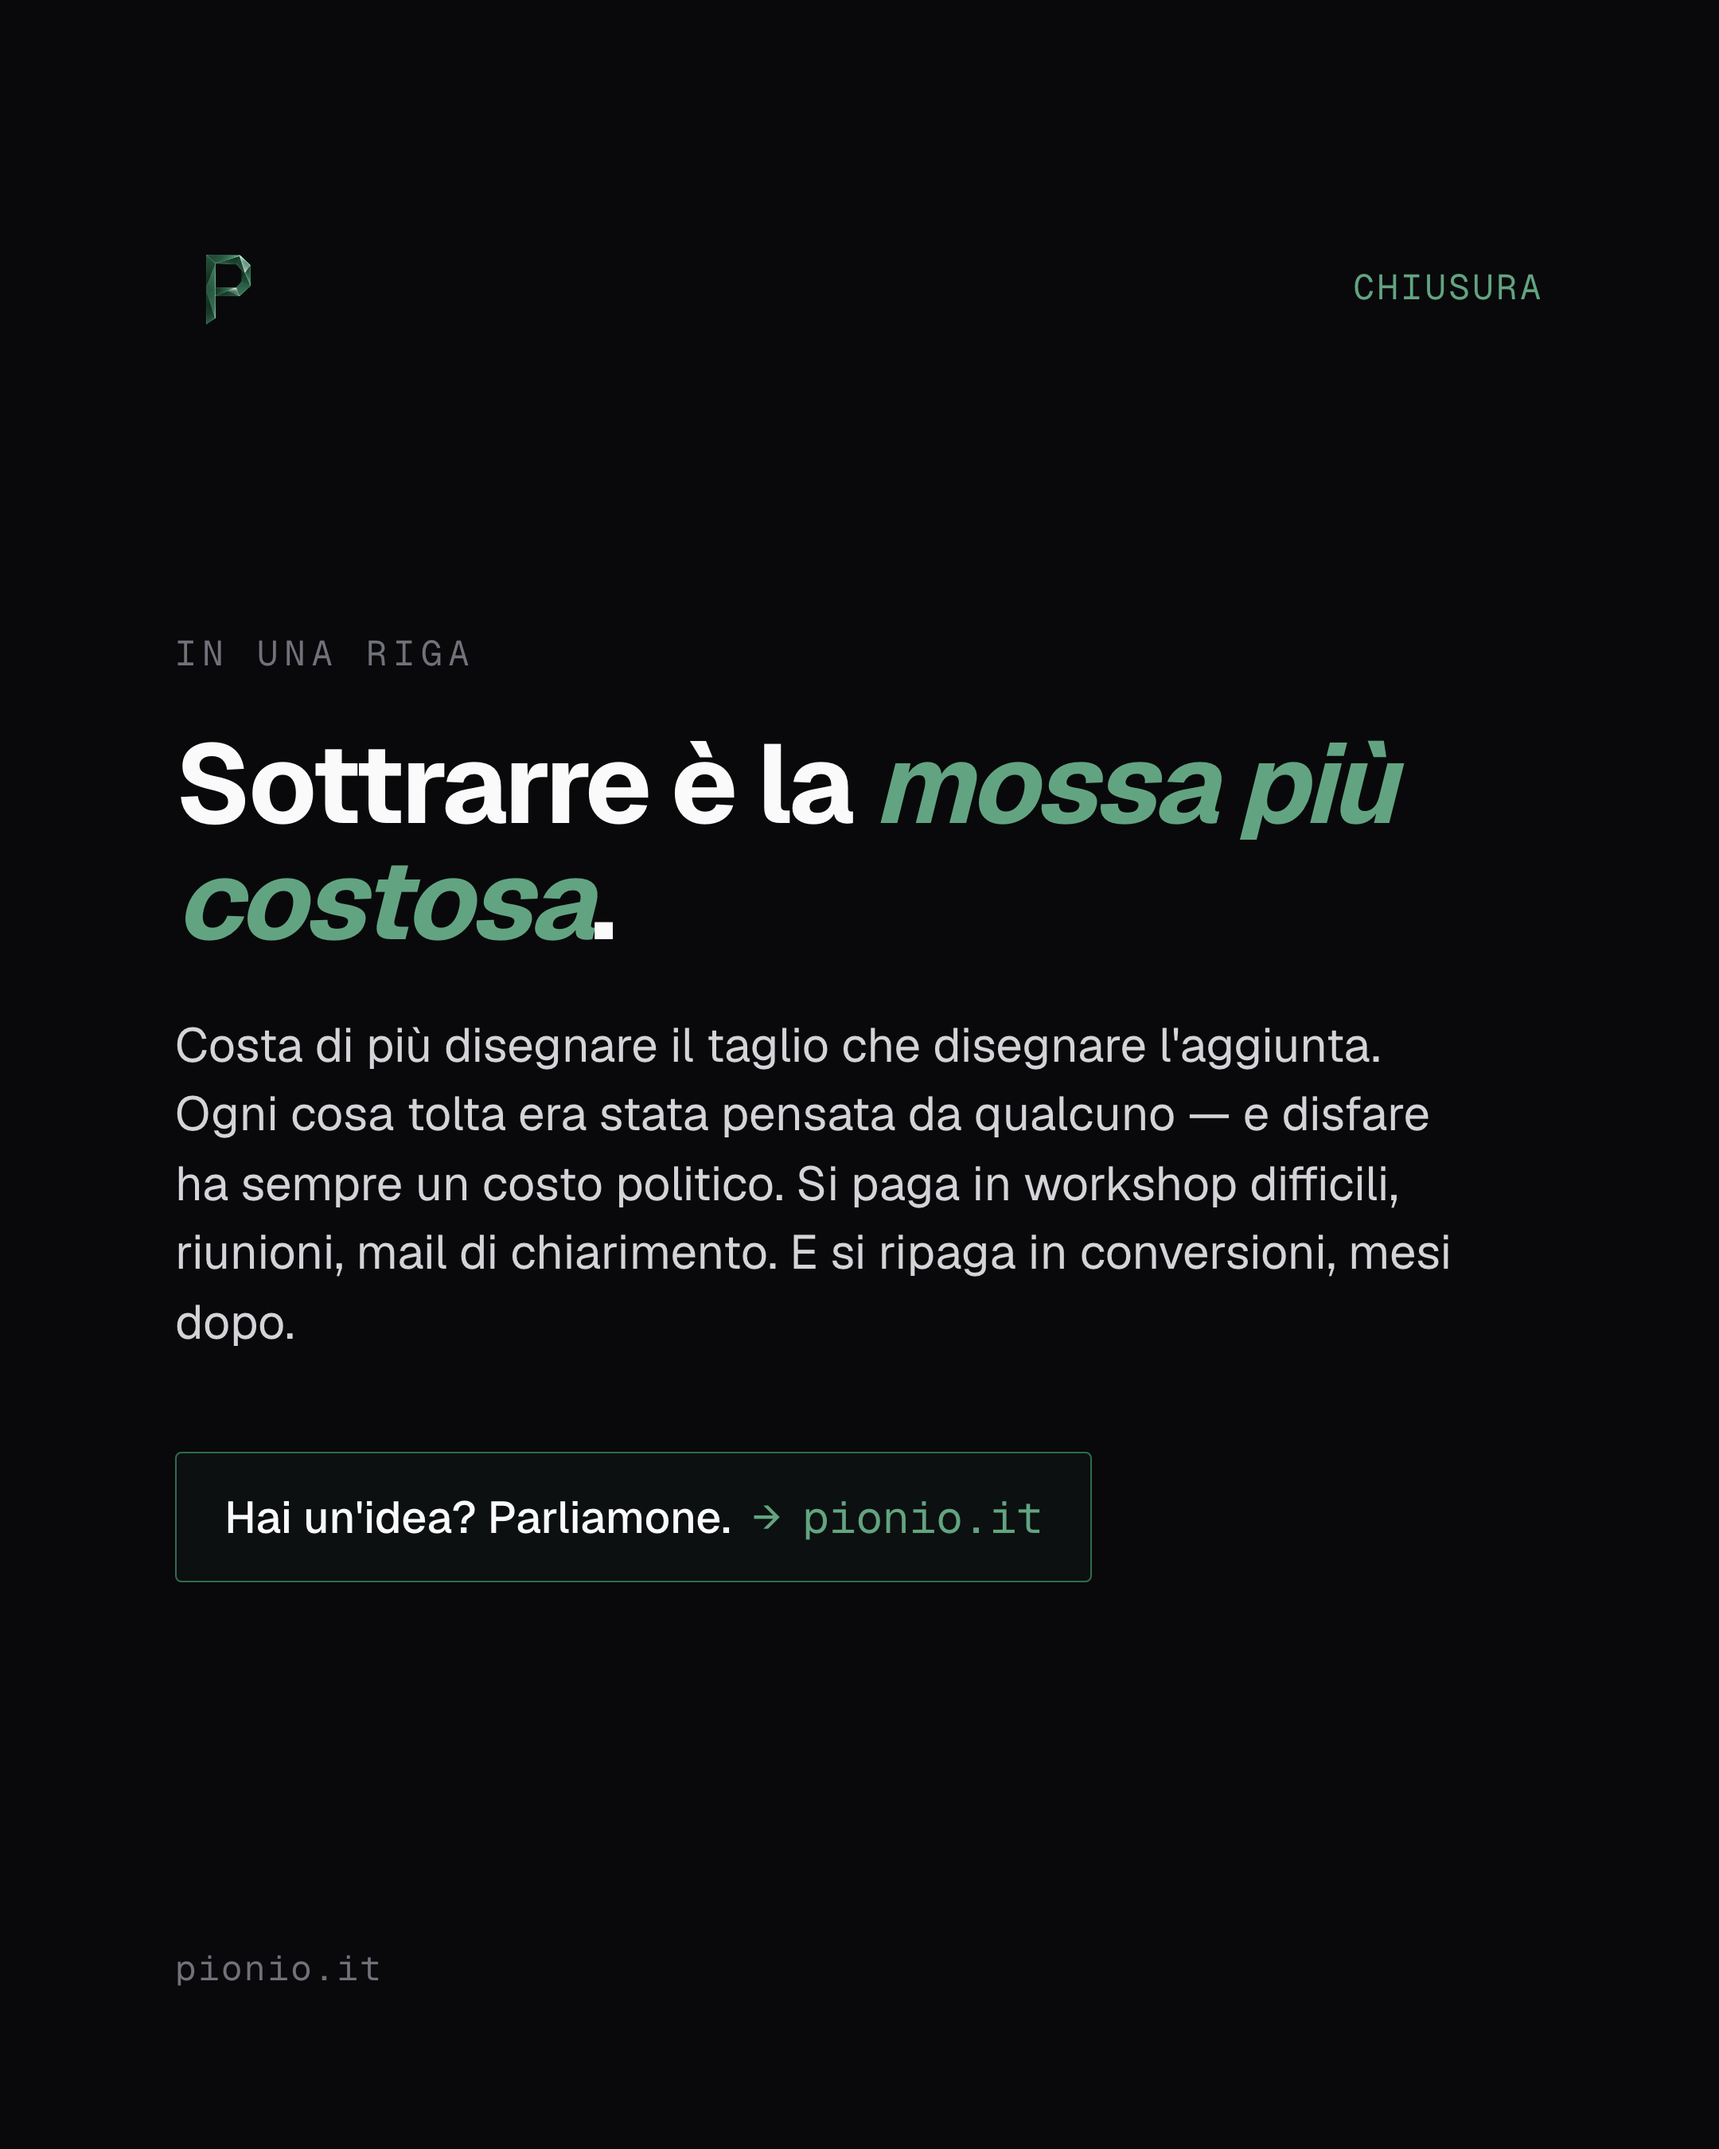
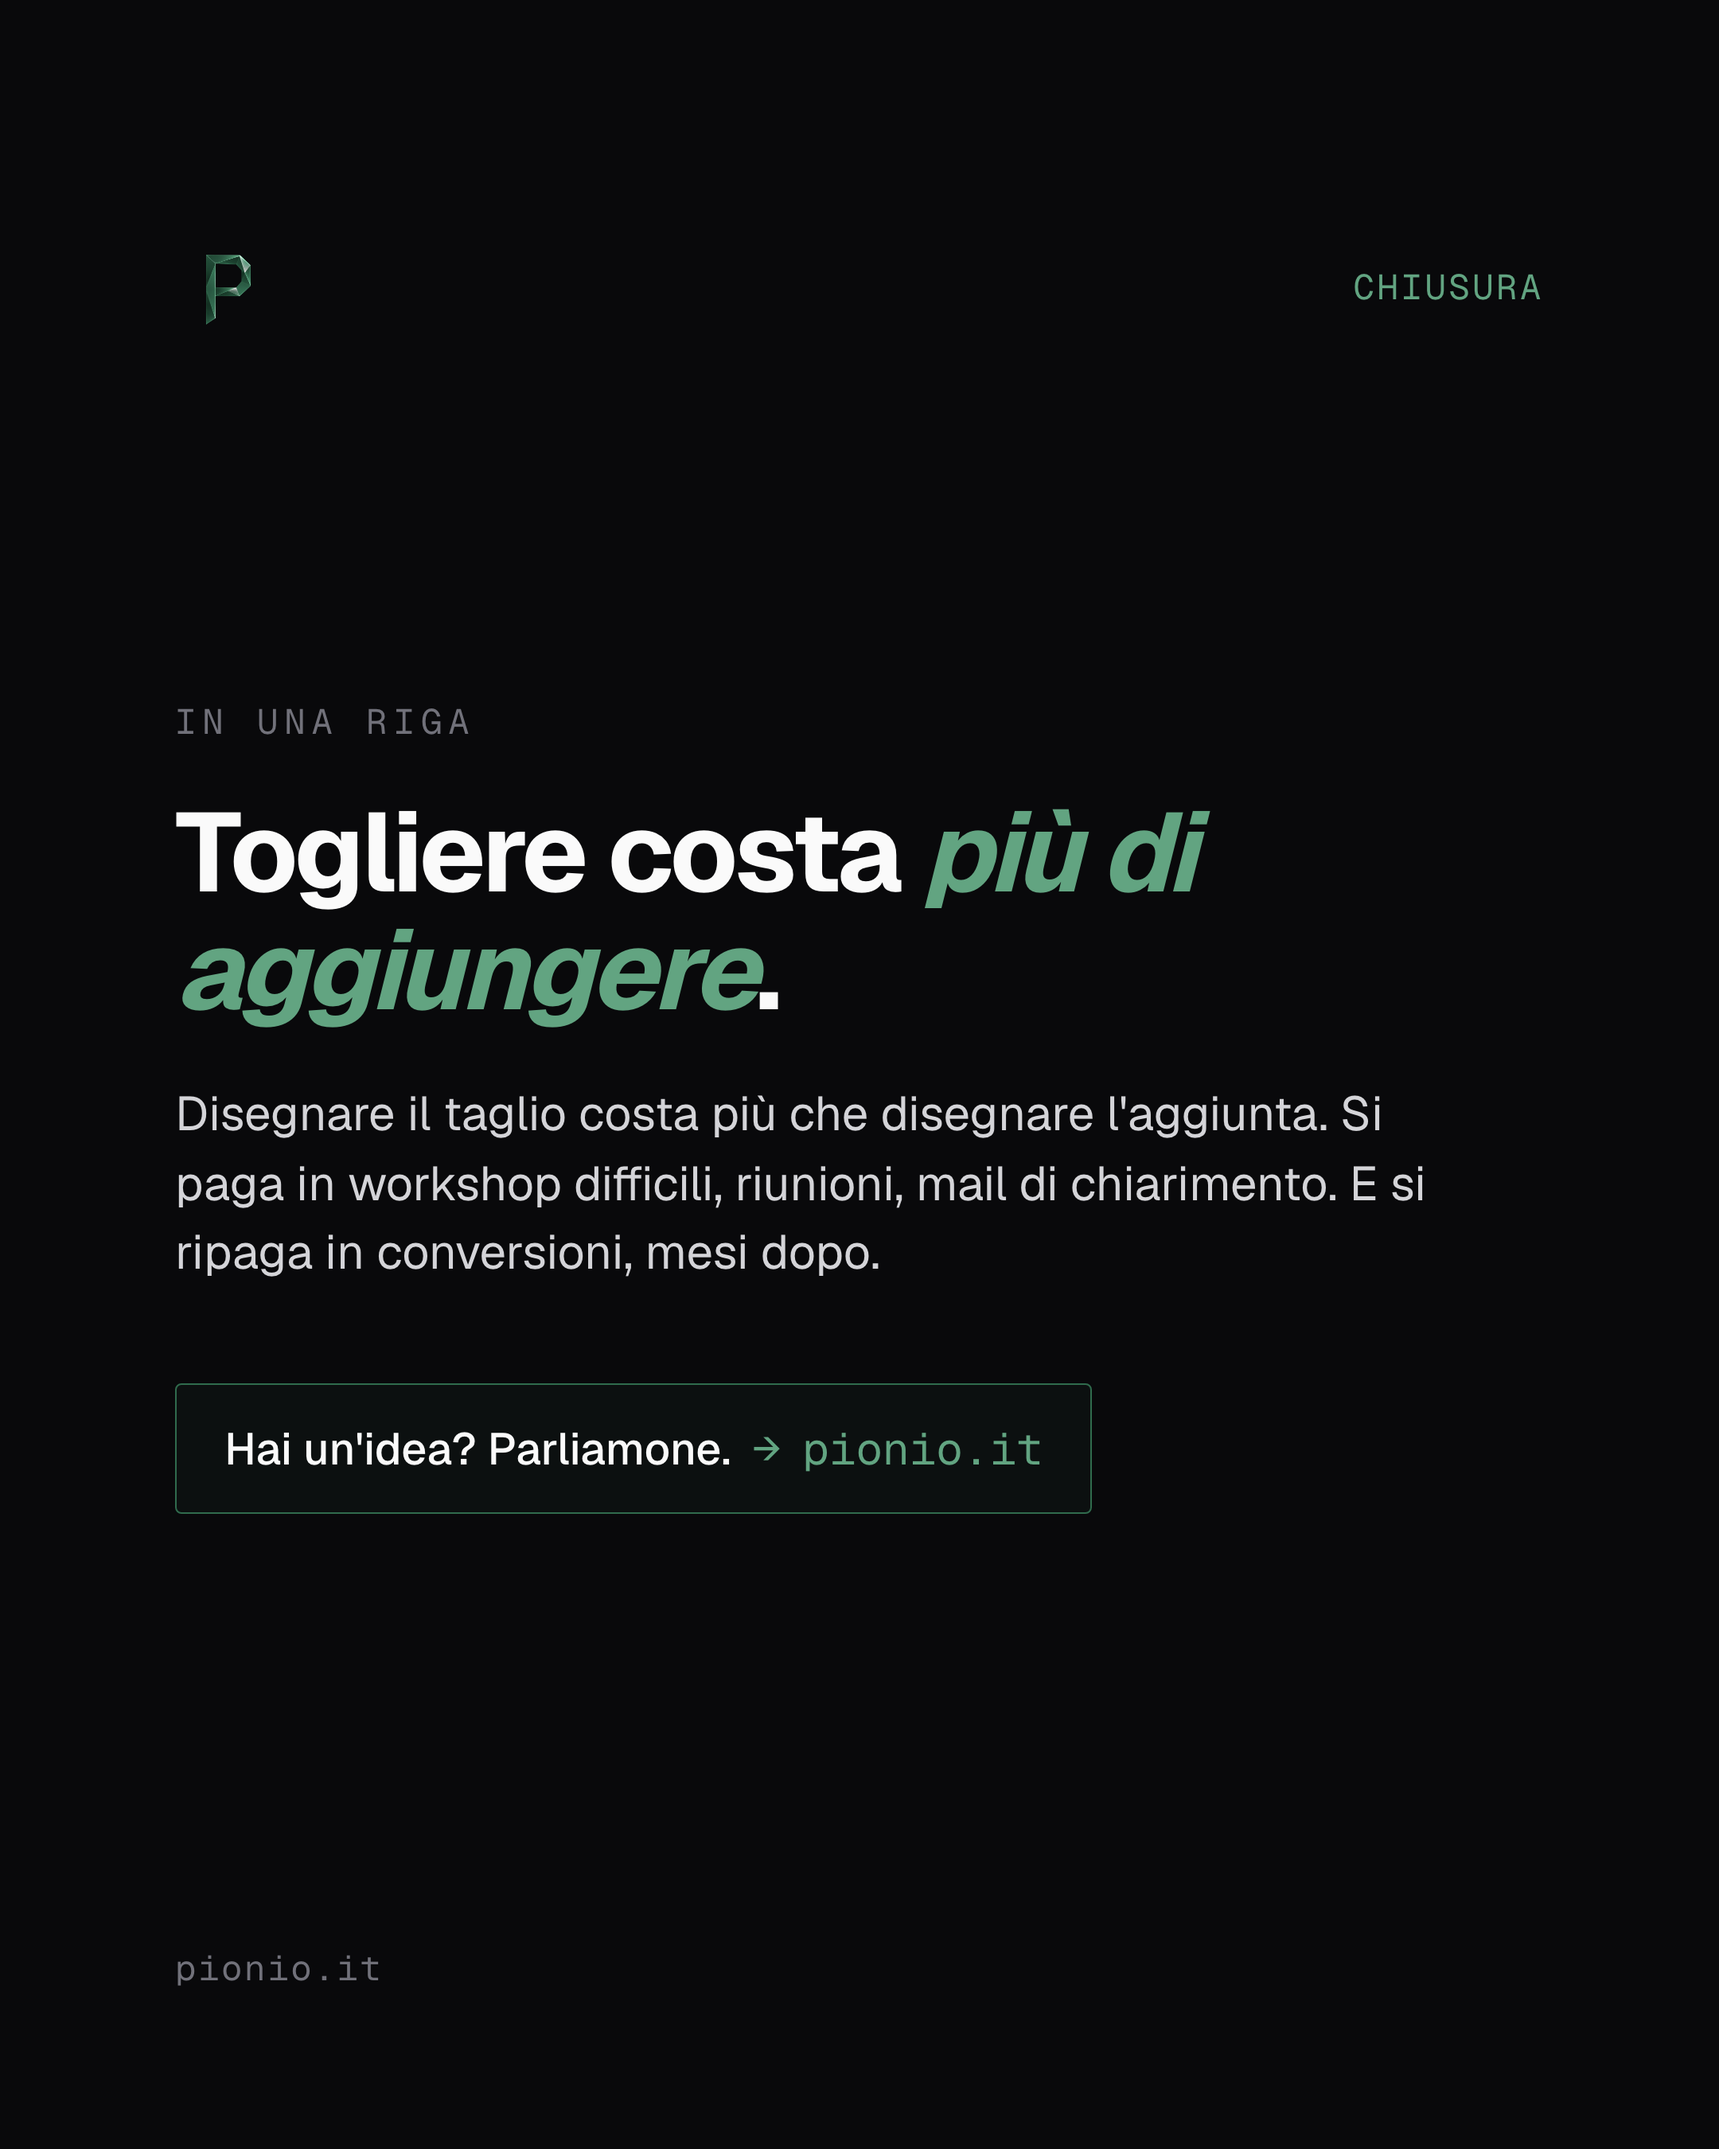
fix(instagram): W10 review batch — voce Pionio, jingle risolto
Pattern "mossa più costosa" ridotto da 6 post a 1 (solo manifesto, riformulato).
Tolti: "costo politico" (3 occorrenze), "ogni cosa tolta era stata pensata da qualcuno" (4), formule LinkedIn ("3 cose che mi porto via", "il vero design è"), claim numerici dubbi ("6 secondi tempo medio", "9 casi su 10"), jargon ("disallineamento strutturale"), aforismi confezionati (stanza sigillata/magazzino).

Post toccati: 12 (morning, educational, manifesto, pillola, reactive, hero, metodo, caso studio, riflessione, mark, saved, brief, question).

Changed region(s): [[0.0931, 0.28, 0.8375, 0.6222], [0.1241, 0.6533, 0.4343, 0.7156], [0.4653, 0.6533, 0.5583, 0.7156]]

diff --git a/instagram/content/settimana-10-lug-2026/1-lun-20-13-educational-cinque-decisioni/src/slides.html b/instagram/content/settimana-10-lug-2026/1-lun-20-13-educational-cinque-decisioni/src/slides.html
@@ -65,7 +65,7 @@
     <div class="punto-num">02</div>
     <div class="punto-label">Sottrazione</div>
     <h2 class="punto-titolo">Cosa togliere, sempre.</h2>
-    <p class="punto-body">Sezioni, voci di menù, link, badge, social proof. Ogni elemento aggiunto pesa più di quello che si pensa. Togliere è quasi sempre la mossa giusta — è anche la più costosa, perché ogni cosa tolta era stata pensata da qualcuno.</p>
+    <p class="punto-body">Sezioni, voci di menù, link, badge, social proof. Ogni elemento aggiunto pesa più di quello che si pensa. Togliere è quasi sempre la mossa giusta — ed è la più scomoda, perché qualcuno aveva pensato a quella cosa.</p>
   </div>
   <div class="footer"><div class="footer-url">pionio.it</div></div>
 </section>
@@ -108,7 +108,7 @@
   <div class="main">
     <div class="hook-kicker">Cinque decisioni, una sera di pensiero.</div>
     <h2 class="punto-titolo" style="margin-top:0;font-size:64px">Non si torna <em style="color:var(--accent);font-style:normal">indietro</em> facilmente.</h2>
-    <p class="punto-body">Prese male, il sito si difende a fatica. Prese bene, il resto è esecuzione — e l'esecuzione è la parte facile del mestiere. Decisione viene prima di design, anche se in italiano la parola "design" significa proprio decidere.</p>
+    <p class="punto-body">Prese male, il sito si difende a fatica. Prese bene, il resto è esecuzione — e l'esecuzione è la parte facile del mestiere. In italiano "design" significa proprio decidere. Prima si decide, poi si disegna.</p>
     <div class="cta">
       <span class="cta-label">Hai un progetto da raccontarmi?</span>
       <span class="cta-arrow">→</span>

diff --git a/instagram/content/settimana-10-lug-2026/1-lun-20-19-manifesto-sottrarre-costoso/src/slides.html b/instagram/content/settimana-10-lug-2026/1-lun-20-19-manifesto-sottrarre-costoso/src/slides.html
@@ -2,7 +2,7 @@
 <html lang="it">
 <head>
 <meta charset="utf-8" />
-<title>Pionio · Manifesto · Sottrarre è la mossa più costosa</title>
+<title>Pionio · Manifesto · Sottrarre</title>
 <style>
   @font-face { font-family: "Geist"; src: url("../../../../../brand-assets/fonts/Geist-Regular.ttf") format("truetype"); font-weight: 400; }
   @font-face { font-family: "Geist"; src: url("../../../../../brand-assets/fonts/Geist-Medium.ttf") format("truetype"); font-weight: 500; }
@@ -34,8 +34,8 @@
   </div>
   <div class="main">
     <div class="eyebrow-inline">UN ALTRO MODO DI PENSARLO</div>
-    <h1 class="pillola-title"><em>Sottrarre</em> è la mossa più costosa.</h1>
-    <p class="pillola-sub">Aggiungere lo fai in dieci minuti, sottrarre in un workshop di un'ora. Ogni cosa tolta era stata pensata da qualcuno — disfare ha sempre un costo politico, prima di averlo tecnico.</p>
+    <h1 class="pillola-title"><em>Sottrarre</em> è la parte più scomoda.</h1>
+    <p class="pillola-sub">Aggiungere lo fai in dieci minuti, sottrarre in un workshop di un'ora. Significa dire al cliente che la sezione che gli piaceva esce — è una scelta che pesa più di quanto sembra.</p>
   </div>
   <div class="footer">
     <div class="footer-url">pionio.it</div>

diff --git a/instagram/content/settimana-10-lug-2026/5-ven-24-13-caso-studio-homepage-tolta/src/slides.html b/instagram/content/settimana-10-lug-2026/5-ven-24-13-caso-studio-homepage-tolta/src/slides.html
@@ -128,8 +128,8 @@
   <div class="header"><div class="logo"><img src="../../../../../design-system/assets/pionio-p-mark.png" alt="P"></div><div class="eyebrow">CHIUSURA</div></div>
   <div class="main">
     <div class="step-label">IN UNA RIGA</div>
-    <h2 class="step-headline">Sottrarre è la <em>mossa più costosa</em>.</h2>
-    <p class="step-body">Costa di più disegnare il taglio che disegnare l'aggiunta. Ogni cosa tolta era stata pensata da qualcuno — e disfare ha sempre un costo politico. Si paga in workshop difficili, riunioni, mail di chiarimento. E si ripaga in conversioni, mesi dopo.</p>
+    <h2 class="step-headline">Togliere costa <em>più di aggiungere</em>.</h2>
+    <p class="step-body">Disegnare il taglio costa più che disegnare l'aggiunta. Si paga in workshop difficili, riunioni, mail di chiarimento. E si ripaga in conversioni, mesi dopo.</p>
     <div class="cta">
       <span class="cta-label">Hai un'idea? Parliamone.</span>
       <span class="cta-arrow">→</span>

diff --git a/instagram/content/settimana-10-lug-2026/5-ven-24-19-riflessione-decisioni-design/src/slides.html b/instagram/content/settimana-10-lug-2026/5-ven-24-19-riflessione-decisioni-design/src/slides.html
@@ -34,8 +34,8 @@
   </div>
   <div class="main">
     <div class="eyebrow-inline">CINQUE GIORNI, TRE COSE</div>
-    <h1 class="pillola-title">Cosa ho imparato sulle <em>decisioni</em>.</h1>
-    <p class="pillola-sub">Prima: la gerarchia decide tutto, e la decidi prima del colore. Seconda: togliere è la mossa più costosa e quella che paga meglio. Terza: la sezione che chiede due cose ne ottiene zero, sempre.</p>
+    <h1 class="pillola-title">Tre cose che <em>restano</em>.</h1>
+    <p class="pillola-sub">Prima: la gerarchia decide tutto, e la decidi prima del colore. Seconda: togliere costa fatica, e paga in chiarezza. Terza: la sezione che chiede due cose ne ottiene zero, sempre.</p>
   </div>
   <div class="footer">
     <div class="footer-url">pionio.it</div>

diff --git a/instagram/content/settimana-10-lug-2026/1-lun-20-08-morning-decidere/src/slides.html b/instagram/content/settimana-10-lug-2026/1-lun-20-08-morning-decidere/src/slides.html
@@ -34,7 +34,7 @@
   <div class="main">
     <div class="word-kicker">PAROLA DEL MATTINO</div>
     <h1 class="word-big">Decidere.</h1>
-    <p class="word-sub">Cinque scelte di design che cambiano tutto.</p>
+    <p class="word-sub">Cinque scelte, poi è esecuzione.</p>
   </div>
   <div class="footer">
     <div class="footer-url">pionio.it</div>
